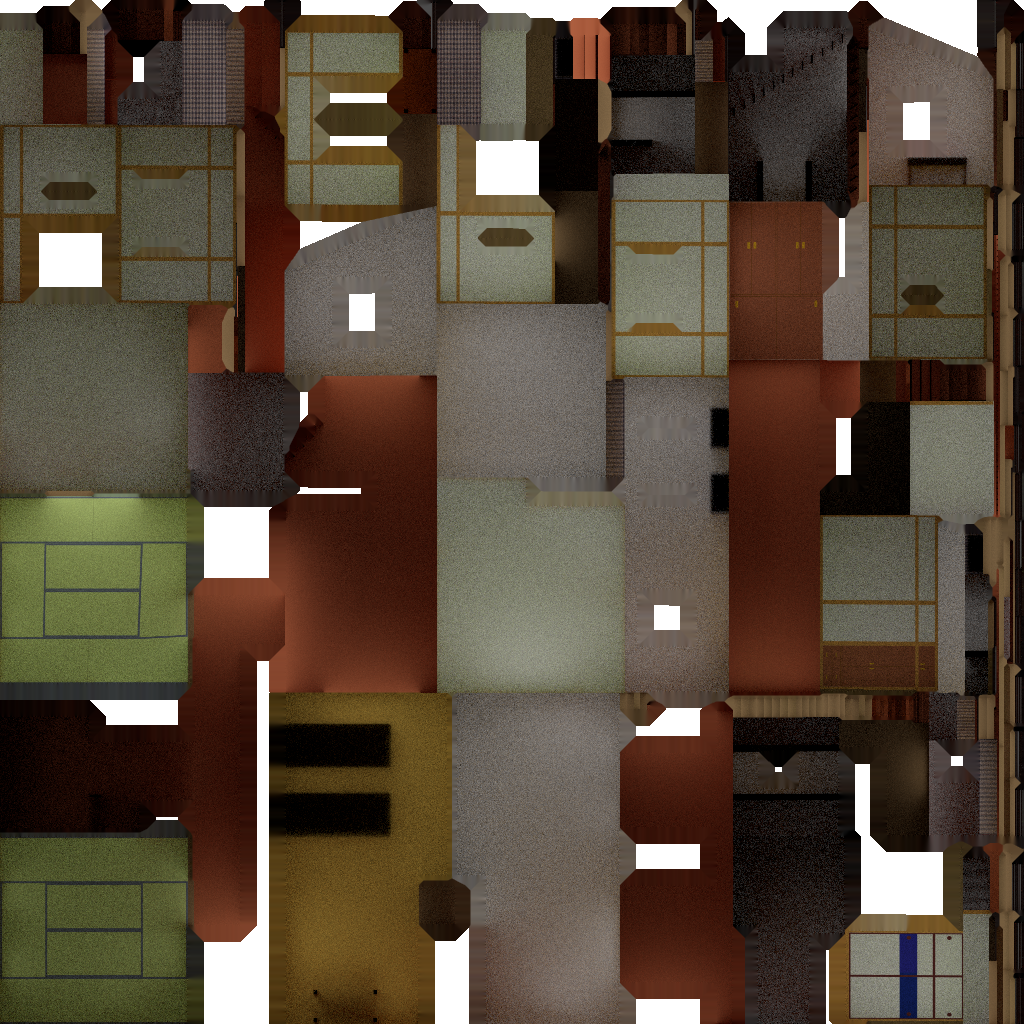
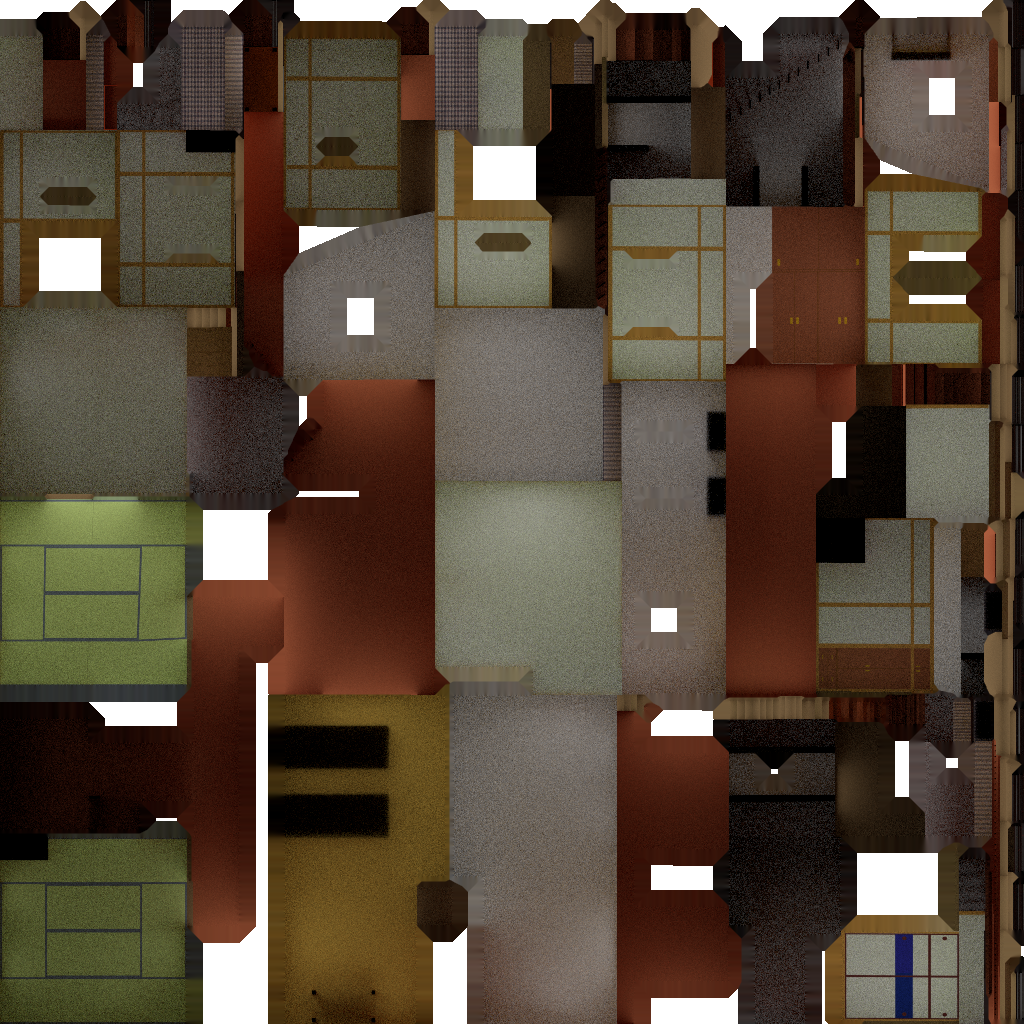
add closet

diff --git a/js/script.js b/js/script.js
@@ -154,6 +154,7 @@ window.onload = function(){
 		c.addEventListener('mousedown', mouseDown, false);
 		c.addEventListener('mousemove', mouseMove, false);
 		c.addEventListener('mouseup', mouseUp, false);
+		c.addEventListener('wheel', wheel, false);
 	}
 	
 	render();
@@ -256,8 +257,14 @@ window.onload = function(){
 
     // camera update
     function cameraUpdate(){
-		m.inverse(objects[obCamera[camMode]].mMatrix, vMatrix);
-        m.multiply(objects[obCamera[camMode]].pMatrix, vMatrix, vpMatrix);
+		let _obCamera = objects[obCamera[camMode]];
+		switch (_obCamera.camera_type) {// 0: PERSP, 1: ORTHO
+			case 0: //PERSP
+				m.perspective(_obCamera.angle_y / 1.0 * 180.0 / Math.PI, c.width / c.height, _obCamera.clip_start, _obCamera.clip_end, _obCamera.pMatrix);
+				break;
+		}
+		m.inverse(_obCamera.mMatrix, vMatrix);
+        m.multiply(_obCamera.pMatrix, vMatrix, vpMatrix);
     }
 
     // action update
@@ -961,6 +968,14 @@ window.onload = function(){
 	function mouseUp(e) {
 		mousePressed = false;
 		
+	}
+	
+	function wheel(e) {
+		let ay = objects[obCamera[camMode]].angle_y;
+		ay += 0.00002 * e.deltaY;
+		if (ay < 0.8 && ay > 0.4) {
+			objects[obCamera[camMode]].angle_y = ay;
+		}
 	}
 	
 	function keyUp(e) {
